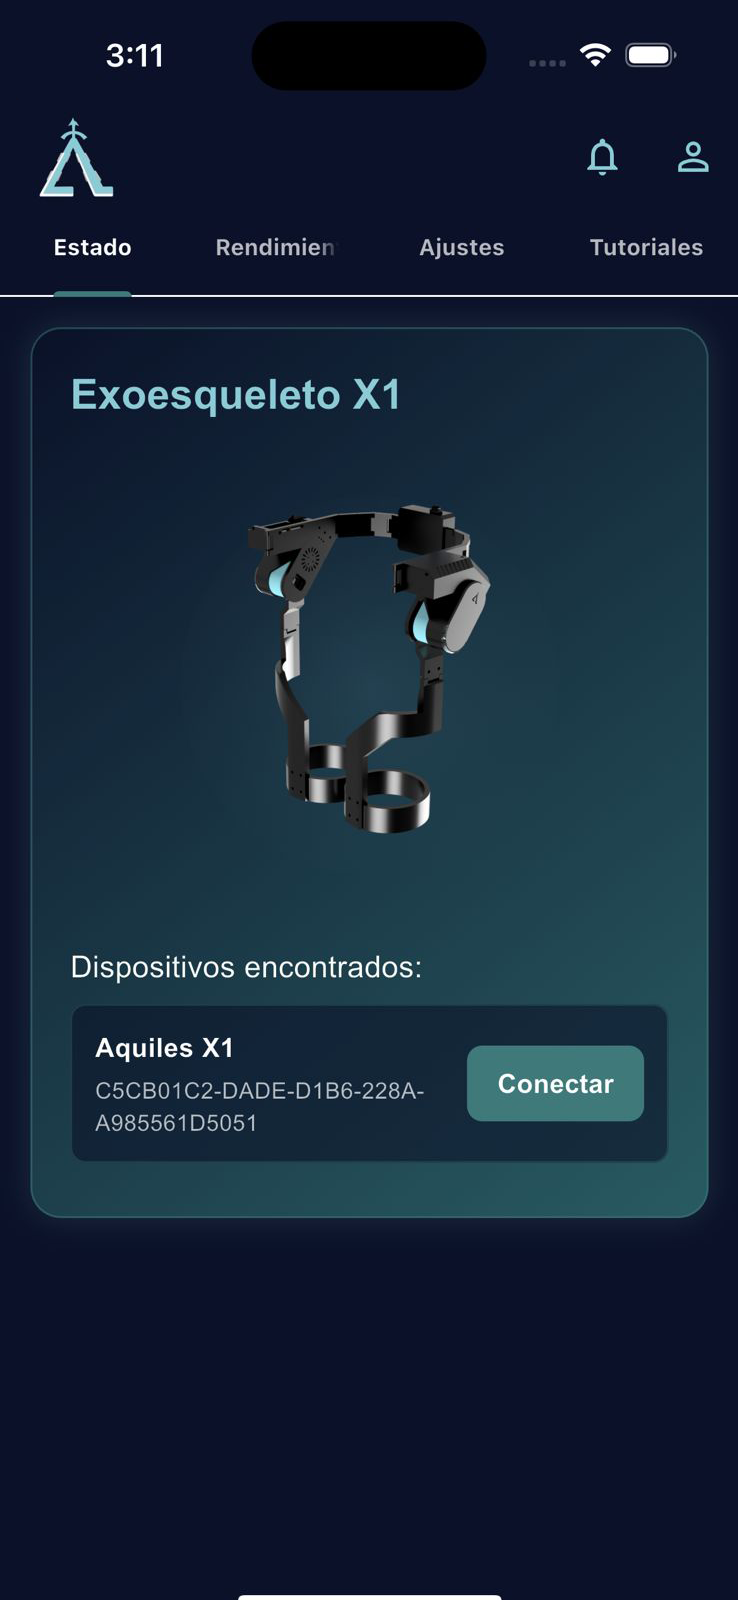
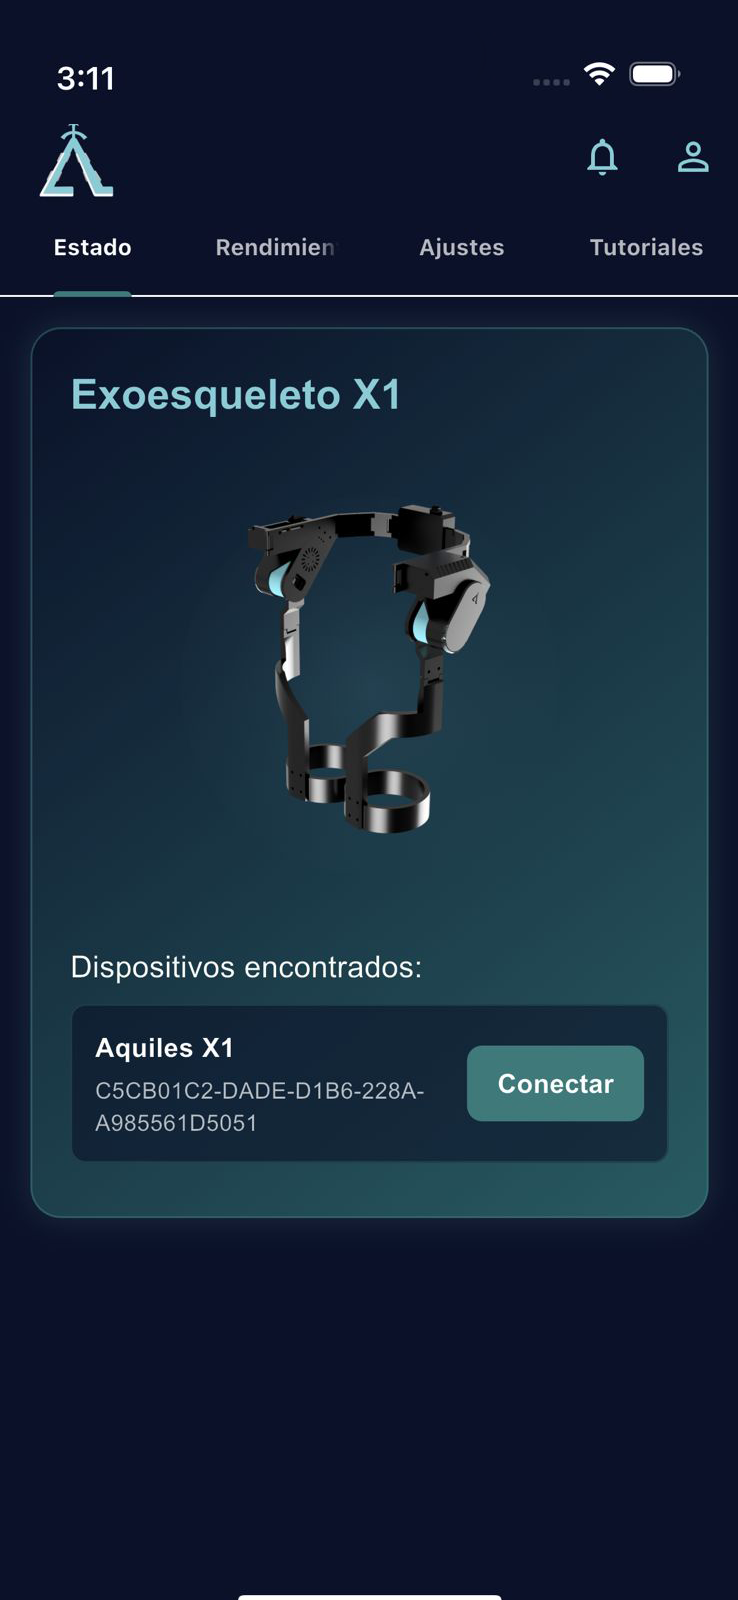
Feat: Iphone 16
Cambio de iphone viejo a iphone 16 de la app movil

Changed region(s): [[0.3428, 0.0, 0.6545, 0.0625], [0.7168, 0.0, 0.935, 0.0625], [0.0623, 0.0312, 0.2182, 0.0625]]

diff --git a/styles.css b/styles.css
@@ -2932,15 +2932,18 @@ img {
   background-color: rgba(0, 0, 0, 0.7);
   color: white;
   padding: 10px 20px;
+  margin-bottom: 20px;
   border-radius: 8px;
   transition: all 0.3s ease;
-  box-shadow: 0 5px 15px rgba(0, 0, 0, 0.3), 0 0 10px rgba(140, 203, 213, 0.2);
+  box-shadow: 0 5px 15px rgba(0, 0, 0, 0.3), 0 0 20px rgba(140, 203, 213, 0.4);
   border: 1px solid rgba(140, 203, 213, 0.2);
 }
 
 .google-play-button:hover {
-  transform: translateY(-5px);
-  box-shadow: 0 10px 25px rgba(0, 0, 0, 0.4), 0 0 15px rgba(140, 203, 213, 0.3);
+  transform: scale(1.05);
+  box-shadow: 
+  0 10px 25px rgba(0, 0, 0, 0.4),
+  0 0 15px rgba(140, 203, 213, 0.3);
   background-color: rgba(0, 0, 0, 0.8);
 }
 
@@ -2983,8 +2986,9 @@ img {
     margin-right: 0;
   }
 }
+/* Iphone Viejo */
 
-.phone-frame {
+/* .phone-frame {
   width: 280px;
   height: 590px;
   background-color: #000;
@@ -2993,7 +2997,7 @@ img {
   padding-top: 60px;
   position: relative;
   box-shadow: 0 30px 60px rgba(0, 0, 0, 0.4), 0 0 30px rgba(140, 203, 213, 0.3);
-  border: 1px solid #444;
+  border: 5px solid #444;
   overflow: hidden;
   transform: perspective(800px) rotateY(0deg);
   transition: all 0.5s ease;
@@ -3048,10 +3052,10 @@ img {
 
 .app-screenshot {
   object-fit: fill;
-  /* object-fit: cover; */
+  object-fit: cover;
 }
-
-.app-particles {
+*/
+/* .app-particles {
   position: absolute;
   top: 0;
   left: 0;
@@ -3059,9 +3063,122 @@ img {
   height: 100%;
   overflow: hidden;
   z-index: 1;
+}  */
+
+/* Iphone 16 */
+.iphone-container {
+  position: relative;
+  width: 400px;
+  height: 820px;
+  background: linear-gradient(145deg, #000, #232323);
+  border-radius: 55px;
+  padding: 12px;
+  margin-right: 70px;
+  box-shadow: 
+      0 30px 60px rgba(0, 0, 0, 0.5),
+      0 0 0 6px rgba(255, 255, 255, 0.1),
+      inset 0 0 0 1px rgba(255, 255, 255, 0.05);
+}
+@media (max-width: 1000px) {
+  .app-content {
+    flex-direction: column;
+    text-align: center;
+  }
+  
+  .app-info {
+    order: 1;
+    margin-bottom: 30px;
+    margin-top: 25px;
+    padding-right: 0;
+  }
+  
+  .iphone-container {
+    order: 2;
+    margin-right: 0;
+  }
+}
+
+/* Dynamic Island */
+.dynamic-island {
+  position: absolute;
+  top: 22px;
+  left: 50%;
+  transform: translateX(-50%);
+  width: 130px;
+  height: 37px;
+  background: #000;
+  border-radius: 25px;
+  z-index: 10;
+  /* box-shadow: 0 2px 10px rgba(0, 0, 0, 0.8); */
+}
+
+/* Botones laterales */
+.side-button {
+  position: absolute;
+  background: rgba(255, 255, 255, 0.2);
+  border-radius: 5px;
+}
+
+.volume-up {
+  left: -8px;
+  top: 120px;
+  width: 3px;
+  height: 80px;
+}
+
+.volume-down {
+  left: -8px;
+  top: 230px;
+  width: 3px;
+  height: 80px;
+}
+
+.power-button {
+  right: -8px;
+  top: 150px;
+  width: 3px;
+  height: 80px;
+}
+
+/* Pantalla */
+.screen {
+  width: 100%;
+  height: 100%;
+  background: #000;
+  border-radius: 45px;
+  overflow: hidden;
+  position: relative;
+}
+
+.screen img {
+  width: 100%;
+  height: 100%;
+  object-fit: cover;
+  display: block;
+}
+
+/* Responsive */
+@media (max-width: 480px) {
+  .iphone-container {
+      width: 320px;
+      height: 656px;
+      border-radius: 44px;
+      padding: 10px;
+  }
+
+  .dynamic-island {
+      width: 104px;
+      height: 30px;
+      top: 18px;
+  }
+
+  .screen {
+      border-radius: 36px;
+  }
 }
 
 /* Services Section */
+
 .services {
   padding: 100px 0;
   position: relative;
@@ -3638,6 +3755,10 @@ img {
   }
   
   .app-mockup {
+    order: 2;
+  }
+  
+  .iphone-container {
     order: 2;
   }
   
@@ -4388,13 +4509,6 @@ img {
   gap: 30px;
   /* padding-right: 100px;
   padding-left: 100px; */
-}
-@media (max-width: 1000px) {
-  .cert-grid {
-    /* padding-right: 50px;
-    padding-left: 50px; */
-  }
-
 }
 .cert-item {
   background-color: rgba(16, 32, 48, 0.7);

diff --git a/index.html b/index.html
@@ -382,7 +382,7 @@
                                 </a>
                             </div>
                         </div>
-                        <div class="app-mockup">
+                        <!-- <div class="app-mockup">
                             <div class="phone-frame">
                                 <div class="phone-screen">
                                     <div class="app-screen" id="appScreen">
@@ -391,9 +391,44 @@
                                 </div>
                                 <div class="phone-button"></div>
                             </div>
+                        </div> -->
+                        
+                        <!-- Iphone 16 -->
+                        <div class="iphone-container">
+                            <!-- Dynamic Island -->
+                            <div class="dynamic-island"></div>
+                            
+                            <!-- Botones laterales -->
+                            <div class="side-button volume-up"></div>
+                            <div class="side-button volume-down"></div>
+                            <div class="side-button power-button"></div>
+                            
+                            <!-- Pantalla con tu imagen -->
+                            <div class="screen">
+                                <img src="med/PAG.png" alt="Exoesqueleto X1 App">
+                            </div>
                         </div>
+
+                        
                     </div>
                 </div>
+
+
+
+
+                <style>
+                
+                </style>
+
+
+
+
+
+
+
+
+
+
                 <!-- <div class="app-particles" id="appParticles"></div> -->
                 <div class="app-buttons-mobile">
                     <a href="#" class="google-play-button">
